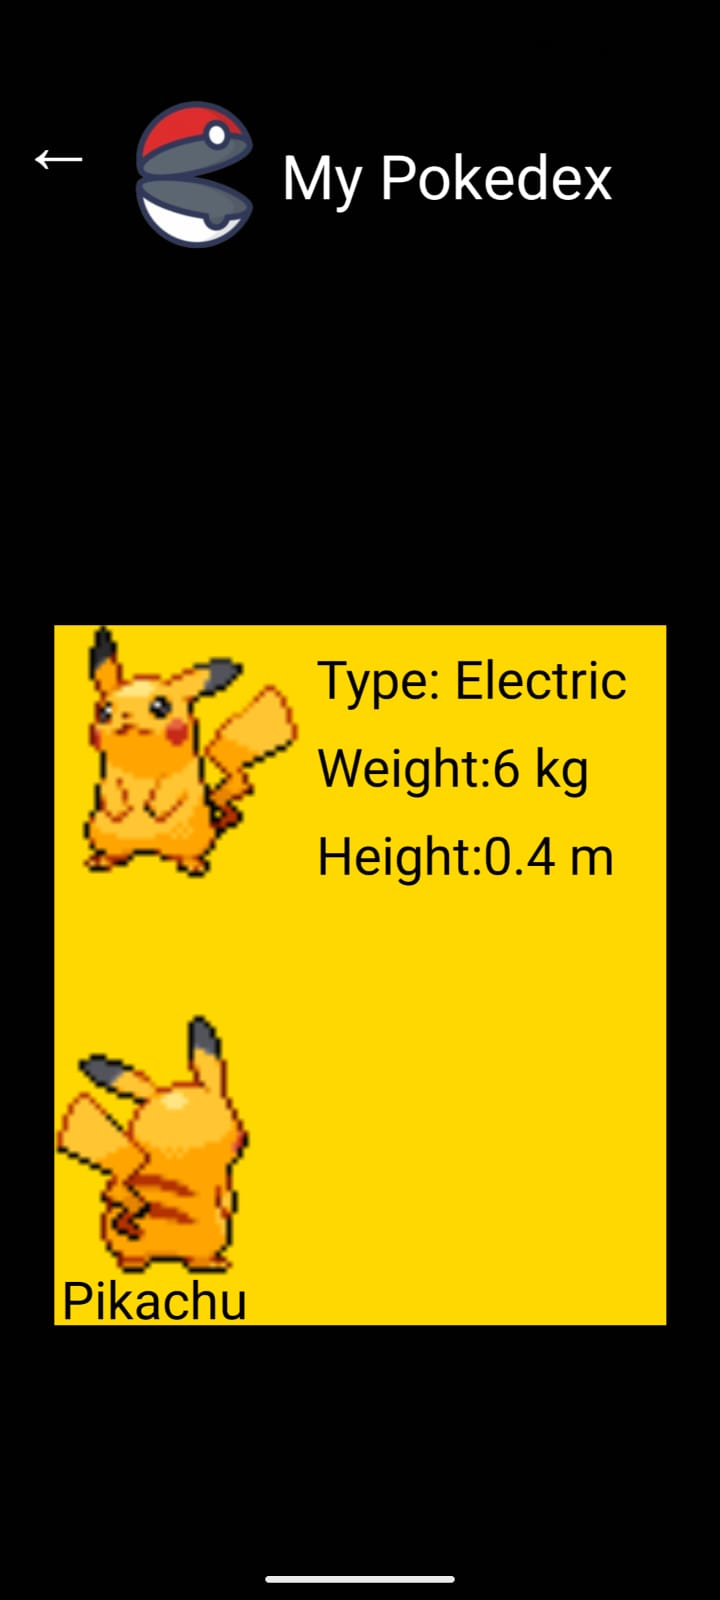
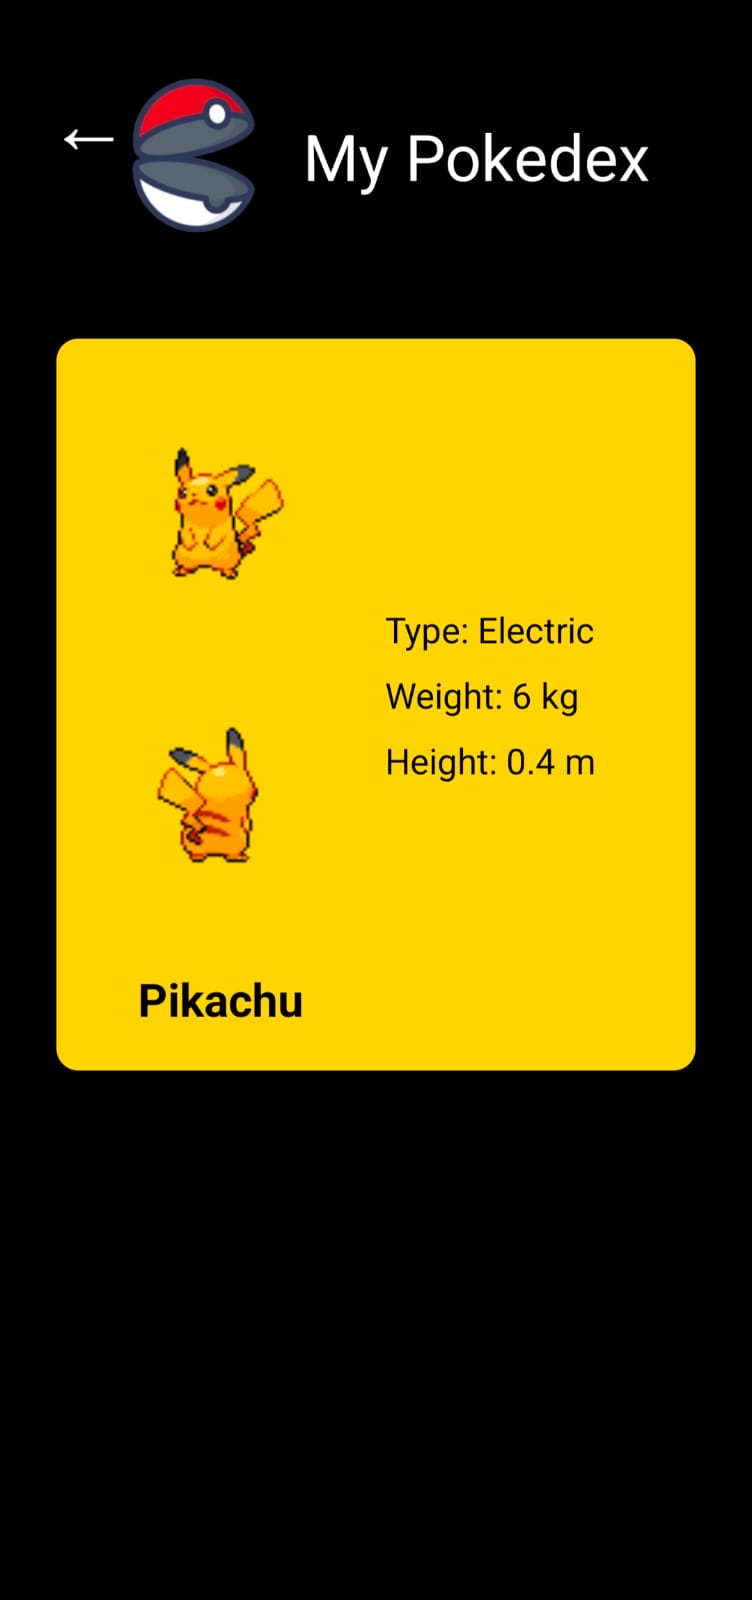
Text fit box changes made

diff --git a/screens/Description.js b/screens/Description.js
@@ -5,123 +5,115 @@ import {
     StyleSheet,
     Image,
     TouchableOpacity
-
 } from 'react-native';
 import { useNavigation, useRoute } from '@react-navigation/native';
 
-export default function Description(){
-    const route=useRoute()
-    const navigation=useNavigation()
-    const data=route.params.pokemonData;
-    
-    
+export default function Description() {
+    const route = useRoute();
+    const navigation = useNavigation();
+    const data = route.params.pokemonData;
 
     return (
         <View style={styles.container}>
             <View style={styles.header}>
-                <TouchableOpacity onPress={()=> navigation.navigate('Main')} style={styles.button}>
+                <TouchableOpacity onPress={() => navigation.navigate('Main')} style={styles.button}>
                     <Text style={styles.text}>←</Text>
                 </TouchableOpacity>
                 <Image style={styles.pokeball}
-                source={require('../components/pokeball.png')}/>
+                    source={require('../components/pokeball.png')} />
                 <Text style={styles.headert}>My Pokedex</Text>
             </View>
 
             <View style={styles.body}>
                 <View style={styles.imageandnames}>
                     <Image
-                    source={{uri:data.sprites.front_shiny}}
-                    style={styles.image}/>
+                        source={{ uri: data.sprites.front_shiny }}
+                        style={styles.image} />
                     <Image
-                    source={{uri:data.sprites.back_shiny}}
-                    style={styles.image}/>
-                    <Text style={styles.name}>{data.name.charAt(0).toUpperCase() + data.name.slice(1)}</Text>
+                        source={{ uri: data.sprites.back_shiny }}
+                        style={styles.image} />
+                    <Text style={styles.name}>
+                        {data.name.charAt(0).toUpperCase() + data.name.slice(1)}
+                    </Text>
                 </View>
 
                 <View style={styles.info}>
-                    <Text style={styles.type}>Type: {data.types[0].type.name.charAt(0).toUpperCase() + data.types[0].type.name.slice(1) }</Text>
-                    <Text style={styles.type}>Weight:{(data.weight)/10} kg</Text>
-                    <Text style={styles.type}>Height:{(data.height)/10} m</Text>
+                    <Text style={styles.type}>
+                        Type: {data.types[0].type.name.charAt(0).toUpperCase() + data.types[0].type.name.slice(1)}
+                    </Text>
+                    <Text style={styles.type}>Weight: {(data.weight) / 10} kg</Text>
+                    <Text style={styles.type}>Height: {(data.height) / 10} m</Text>
                 </View>
             </View>
         </View>
-    )
+    );
 }
 
-const styles=StyleSheet.create({
-    container:{
-        flex:1,
-        backgroundColor:'black',
-        alignItems:'center',
-       
+const styles = StyleSheet.create({
+    container: {
+        flex: 1,
+        backgroundColor: 'black',
+        alignItems: 'center',
     },
-    header:{
-        flexDirection:'row',
-        alignItems:'center',
-        padding:50,
-        justifyContent:'flex-start'
+    header: {
+        flexDirection: 'row',
+        alignItems: 'center',
+        padding: 50,
+        justifyContent: 'flex-start'
     },
-    headert:{
-        margin:'auto',
-        color:'white',
-        fontSize:35
+    headert: {
+        marginLeft: 10,
+        color: 'white',
+        fontSize: 35
     },
-    pokeball:{
-        width:100,
-        height:100
+    pokeball: {
+        width: 100,
+        height: 100
     },
-    button:{
-        width:50,
-        height:50,
-        opacity:1,
-        alignSelf:'flex-start',
-        position:'absolute',
-        top:50
+    button: {
+        position: 'absolute',
+        top: 50,
+        left: 20
     },
-    text:{
-        color:'white',
-        fontSize:45,
+    text: {
+        color: 'white',
+        fontSize: 45,
     },
-    body:{
-        justifyContent: 'flex-start',   // Centers content vertically
-        alignItems:'flex-start',
-        backgroundColor:'gold',
-        width:350,
-        height:400,
-        margin:'auto',
-        flexDirection:'row'
-        
+    body: {
+        flexDirection: 'row',
+        backgroundColor: 'gold',
+        width: 350,
+        height: 400,
+        borderRadius: 12,
+        padding: 10
     },
-    image:{
-        width:200,
-        height:300,
-        marginTop: -70,     // Optional: Add some spacing from the top
-        marginLeft: -30,  
-        justifyContent:'space-evenly'
+    image: {
+        width: 150,
+        height: 150,
+        resizeMode: 'contain',
+        marginBottom: 5
     },
-    name:{
-        marginTop:-90,
-        marginRight:55,
-        fontStyle:'Helvetica',
-        fontSize:30
-
+    name: {
+        fontSize: 24,
+        fontWeight: 'bold',
+        marginTop: 10,
+        textAlign: 'center'
     },
-    imageandnames:{
-        alignItems:'center',
-        justifyContent:'center'
+    imageandnames: {
+        flex: 1,
+        alignItems: 'center',
+        justifyContent: 'center',
+        gap:1
     },
-    info:{
-        
-        // justifyContent:'flex-end',
-        // alignItems:'flex-end'
+    info: {
+        flex: 1,
+        justifyContent: 'center',
+        paddingLeft: 10
     },
-    type:{
-        color:'black',
-        fontStyle:'Helvetica',
-        fontSize:30,
-        marginTop:10,
-        marginLeft:-20
+    type: {
+        fontSize: 18,
+        marginBottom: 10,
+        color: 'black',
+        flexWrap: 'wrap'
     }
-
-
-})
+});
